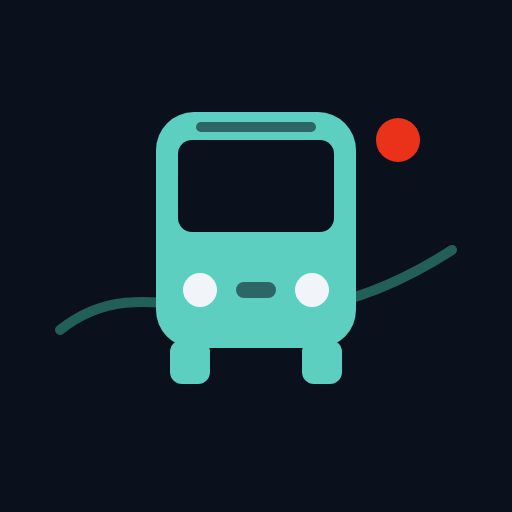
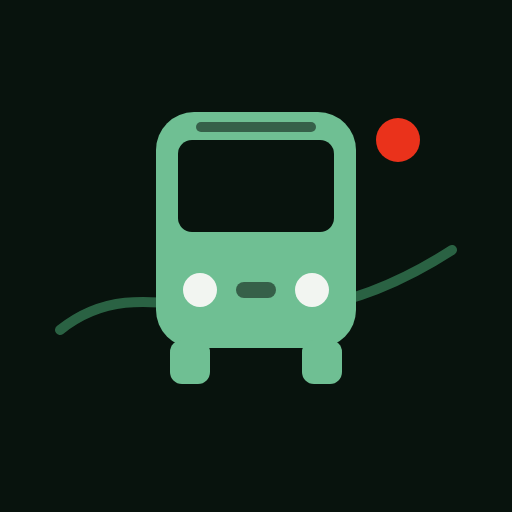
presidio: use the portfolio's colors, like /bus/ (#7)
The shuttle page had its own navy/teal palette. It now uses the same
tokens as styles.css and /bus/ (green-black background, sage accent),
with the pass tag in the neutral ink color. Icons re-rendered in the
same colors (red Presidio GO dot instead of the bus app's amber one);
service worker cache bumped.

Claude-Session: https://claude.ai/code/session_01GZKnSMnVj8rWgE8adLpR2W

Changed region(s): [[0.2812, 0.2188, 0.7188, 0.75]]

diff --git a/presidio/app.css b/presidio/app.css
@@ -1,13 +1,12 @@
-/* Shuttle — Presidio GO tracker. Same layout as /bus/, in a fog-and-sea-glass palette. */
+/* Shuttle — Presidio GO tracker. Same layout as /bus/; tokens follow the portfolio's styles.css. */
 @font-face{font-family:'Space Grotesk';src:url('../fonts/SpaceGrotesk-var.woff2') format('woff2');font-weight:300 700;font-display:swap}
 @font-face{font-family:'JetBrains Mono';src:url('../fonts/JetBrainsMono-var.woff2') format('woff2');font-weight:100 800;font-display:swap}
 
 :root{
-  --bg:#0A101C; --panel:#0E1626; --panel-2:#132036;
-  --ink:#F1F5F9; --ink-soft:#A0B0C4; --ink-faint:#6B7C92;
-  --accent:#5CCFC0; --accent-deep:#24685F;
-  --late:#E8B04B; --very-late:#F07A5A; --early:#93B4FF; --bad:#F07A5A;
-  --pass:#C9A2FF;
+  --bg:#08130D; --panel:#0B1A12; --panel-2:#10241A;
+  --ink:#F2F5F1; --ink-soft:#9DB0A4; --ink-faint:#6D8276;
+  --accent:#6FBF93; --accent-deep:#2F6B49;
+  --late:#E8B04B; --very-late:#F07A5A; --early:#86B8FF; --bad:#F07A5A;
   --rule:rgba(255,255,255,.07); --rule-strong:rgba(255,255,255,.12);
   --sans:'Space Grotesk',ui-sans-serif,system-ui,sans-serif;
   --mono:'JetBrains Mono',ui-monospace,monospace;
@@ -43,13 +42,13 @@ h1 .arrow{color:var(--ink-soft)}
 /* ---------- feed status + holiday note ---------- */
 .feed{display:flex;align-items:center;gap:8px;margin-top:10px;font-family:var(--mono);font-size:12px;color:var(--ink-soft)}
 .beacon{width:8px;height:8px;border-radius:50%;background:var(--ink-faint);flex:none}
-.feed.ok .beacon{background:var(--accent);box-shadow:0 0 0 0 rgba(92,207,192,.6);animation:ping 2s var(--ease) infinite}
+.feed.ok .beacon{background:var(--accent);box-shadow:0 0 0 0 rgba(111,191,147,.6);animation:ping 2s var(--ease) infinite}
 .feed.warn{color:var(--late)} .feed.warn .beacon{background:var(--late)}
 .feed.bad{color:var(--bad)} .feed.bad .beacon{background:var(--bad)}
 .note{margin-top:10px;font-size:13px;color:var(--late);border:1px solid rgba(232,176,75,.35);background:rgba(232,176,75,.08);
       border-radius:10px;padding:8px 12px}
 .note[hidden]{display:none}
-@keyframes ping{0%{box-shadow:0 0 0 0 rgba(92,207,192,.55)}80%,100%{box-shadow:0 0 0 7px rgba(92,207,192,0)}}
+@keyframes ping{0%{box-shadow:0 0 0 0 rgba(111,191,147,.55)}80%,100%{box-shadow:0 0 0 7px rgba(111,191,147,0)}}
 
 /* ---------- hero: the bus to take ---------- */
 .hero{margin-top:14px;background:linear-gradient(160deg,var(--panel-2),var(--panel));border:1px solid var(--rule-strong);
@@ -82,24 +81,24 @@ h1 .arrow{color:var(--ink-soft)}
 
 /* ---------- map ---------- */
 .map-wrap{position:relative;margin-top:14px;border-radius:18px;overflow:hidden;border:1px solid var(--rule-strong)}
-#map{height:42vh;min-height:260px;max-height:420px;background:#0c1422}
-.map-fit{position:absolute;right:10px;bottom:10px;z-index:500;background:rgba(10,16,28,.86);border:1px solid var(--rule-strong);
+#map{height:42vh;min-height:260px;max-height:420px;background:#0d1712}
+.map-fit{position:absolute;right:10px;bottom:10px;z-index:500;background:rgba(8,19,13,.86);border:1px solid var(--rule-strong);
          border-radius:10px;padding:7px 12px;font-family:var(--mono);font-size:12px;color:var(--ink);cursor:pointer}
-.leaflet-container{font-family:var(--sans);background:#0c1422}
+.leaflet-container{font-family:var(--sans);background:#0d1712}
 .leaflet-tile-pane{filter:invert(1) hue-rotate(180deg) brightness(.82) contrast(.9) saturate(.35)}
-.leaflet-control-attribution{background:rgba(10,16,28,.75)!important;color:var(--ink-faint)!important;font-size:10px}
+.leaflet-control-attribution{background:rgba(8,19,13,.75)!important;color:var(--ink-faint)!important;font-size:10px}
 .leaflet-control-attribution a{color:var(--ink-soft)!important}
-.leaflet-bar a{background:rgba(10,16,28,.9);color:var(--ink);border-color:var(--rule-strong)}
+.leaflet-bar a{background:rgba(8,19,13,.9);color:var(--ink);border-color:var(--rule-strong)}
 .pin-host{background:none;border:none}
 .bus-pin{width:40px;height:24px;display:grid;place-items:center;font-family:var(--mono);font-weight:700;font-size:11px;color:#fff;
-         border-radius:8px;border:2px solid var(--bg);box-shadow:0 0 0 2px var(--ring,#5CCFC0),0 2px 8px rgba(0,0,0,.5);
+         border-radius:8px;border:2px solid var(--bg);box-shadow:0 0 0 2px var(--ring,#6FBF93),0 2px 8px rgba(0,0,0,.5);
          transition:transform .2s var(--ease)}
 .bus-pin.dim{opacity:.6;box-shadow:0 0 0 2px var(--ink-faint)}
 .bus-pin.sel{transform:scale(1.2)}
 .stop-pin{width:16px;height:16px;border-radius:50%;background:var(--accent);border:3px solid var(--bg);box-shadow:0 0 0 2px var(--accent)}
 .stop-pin.dest{border-radius:4px;background:var(--ink);box-shadow:0 0 0 2px var(--ink-soft)}
 .stop-pin.work{background:var(--late);box-shadow:0 0 0 2px var(--late)}
-.leaflet-tooltip.lbl{background:rgba(10,16,28,.9);color:var(--ink);border:1px solid var(--rule-strong);font-family:var(--mono);
+.leaflet-tooltip.lbl{background:rgba(8,19,13,.9);color:var(--ink);border:1px solid var(--rule-strong);font-family:var(--mono);
                      font-size:11px;padding:3px 6px;box-shadow:none}
 .leaflet-tooltip.lbl::before{display:none}
 
@@ -110,7 +109,7 @@ h1 .arrow{color:var(--ink-soft)}
 .row{display:flex;gap:12px;align-items:flex-start;padding:13px 4px;border-bottom:1px solid var(--rule);cursor:pointer;
      border-radius:10px;transition:background .2s var(--ease)}
 .row:active,.row.sel{background:var(--panel)}
-.row.best{background:linear-gradient(90deg,rgba(92,207,192,.10),transparent 70%)}
+.row.best{background:linear-gradient(90deg,rgba(111,191,147,.10),transparent 70%)}
 .row.gone{opacity:.45}
 .row.canceled .t{text-decoration:line-through}
 .row .main{flex:1;min-width:0}
@@ -121,7 +120,7 @@ h1 .arrow{color:var(--ink-soft)}
 .row .line3{color:var(--ink-faint)}
 .row .tag{font-family:var(--mono);font-size:10px;letter-spacing:.06em;text-transform:uppercase;color:var(--accent);
           border:1px solid var(--accent-deep);padding:1px 5px;border-radius:4px;margin-left:2px}
-.tag.pass,.row .tag.pass{color:var(--pass);border:1px solid rgba(201,162,255,.45);font-family:var(--mono);font-size:10px;letter-spacing:.06em;
+.tag.pass,.row .tag.pass{color:var(--ink-soft);border:1px solid var(--rule-strong);font-family:var(--mono);font-size:10px;letter-spacing:.06em;
                          text-transform:uppercase;padding:1px 5px;border-radius:4px;margin-left:2px}
 .hero .pass-note{display:flex;align-items:center;gap:6px;margin-top:6px}
 .hero .pass-note .tag{margin-left:0}
@@ -203,7 +202,7 @@ body.riding{overflow:hidden}
 .ride-hero.next{background:var(--late);border-color:var(--late);color:var(--bg);animation:pulse 1.4s var(--ease) infinite}
 .ride-hero.next .ride-lead,.ride-hero.next .ride-sub,.ride-hero.next .ride-sub b{color:var(--bg)}
 .ride-alert-text{font-size:40px;font-weight:700;letter-spacing:-.02em;line-height:1.05;margin-top:6px}
-.ride-hero.arrived{border-color:var(--accent);background:linear-gradient(160deg,rgba(92,207,192,.22),var(--panel))}
+.ride-hero.arrived{border-color:var(--accent);background:linear-gradient(160deg,rgba(111,191,147,.22),var(--panel))}
 .ride-hero.arrived .ride-lead{color:var(--accent);font-size:14px}
 @keyframes pulse{0%,100%{box-shadow:0 0 0 0 rgba(232,176,75,.55)}50%{box-shadow:0 0 0 10px rgba(232,176,75,0)}}
 
@@ -221,12 +220,12 @@ body.riding{overflow:hidden}
 .stop.passed .tm{color:var(--accent)}
 .stop.next .nm{color:var(--ink);font-weight:500}
 .stop.next .tl{border-color:var(--accent)}
-.stop.at .tl{background:var(--accent);border-color:var(--accent);box-shadow:0 0 0 4px rgba(92,207,192,.25)}
+.stop.at .tl{background:var(--accent);border-color:var(--accent);box-shadow:0 0 0 4px rgba(111,191,147,.25)}
 .stop.dest .tl{width:18px;height:18px;margin-left:1px;border-radius:5px;border-color:var(--late);background:var(--late)}
 .stop.dest .nm{font-weight:600;color:var(--ink)}
 .stop.skipped .nm{text-decoration:line-through}
 .stop.marker{padding:4px 0;font-family:var(--mono);font-size:12px;color:var(--accent);letter-spacing:.04em;text-transform:uppercase}
-.stop.marker .tl{width:12px;height:12px;margin-left:4px;border:none;background:var(--accent);box-shadow:0 0 0 0 rgba(92,207,192,.6);animation:ping 1.6s var(--ease) infinite}
+.stop.marker .tl{width:12px;height:12px;margin-left:4px;border:none;background:var(--accent);box-shadow:0 0 0 0 rgba(111,191,147,.6);animation:ping 1.6s var(--ease) infinite}
 .stop .tag{font-family:var(--mono);font-size:10px;letter-spacing:.06em;text-transform:uppercase;padding:1px 5px;border-radius:4px;white-space:nowrap;
            margin-left:6px;color:var(--bg);background:var(--late);vertical-align:2px}
 .stop .tag.soft{background:none;color:var(--accent);border:1px solid var(--accent-deep)}

diff --git a/presidio/index.html b/presidio/index.html
@@ -6,7 +6,7 @@
   <title>Shuttle</title>
   <meta name="description" content="Presidio GO between Lombard Gate and 50 Beale St — live shuttle departures both ways.">
   <meta name="robots" content="noindex, nofollow">
-  <meta name="theme-color" content="#0A101C">
+  <meta name="theme-color" content="#08130D">
   <meta name="apple-mobile-web-app-capable" content="yes">
   <meta name="mobile-web-app-capable" content="yes">
   <meta name="apple-mobile-web-app-status-bar-style" content="black-translucent">

diff --git a/presidio/sw.js b/presidio/sw.js
@@ -1,5 +1,5 @@
 // Network-first service worker: always fresh online, still opens offline (last good copy).
-const CACHE = "shuttle-v1";
+const CACHE = "shuttle-v2";
 const SHELL = ["./", "app.css", "app.js", "manifest.webmanifest", "icon-192.png",
                "../bus/ride.js", "../bus/vendor/leaflet/leaflet.css", "../bus/vendor/leaflet/leaflet.js",
                "../fonts/SpaceGrotesk-var.woff2", "../fonts/JetBrainsMono-var.woff2"];

diff --git a/presidio/app.js b/presidio/app.js
@@ -276,7 +276,7 @@
 
   function ringColor(d) {
     const c = chip(d)[0];
-    return { ontime: "#5CCFC0", late: "#E8B04B", verylate: "#F07A5A", early: "#93B4FF", canceled: "#F07A5A" }[c] || "#A0B0C4";
+    return { ontime: "#6FBF93", late: "#E8B04B", verylate: "#F07A5A", early: "#86B8FF", canceled: "#F07A5A" }[c] || "#9DB0A4";
   }
 
   function renderMarkers(list, best) {
